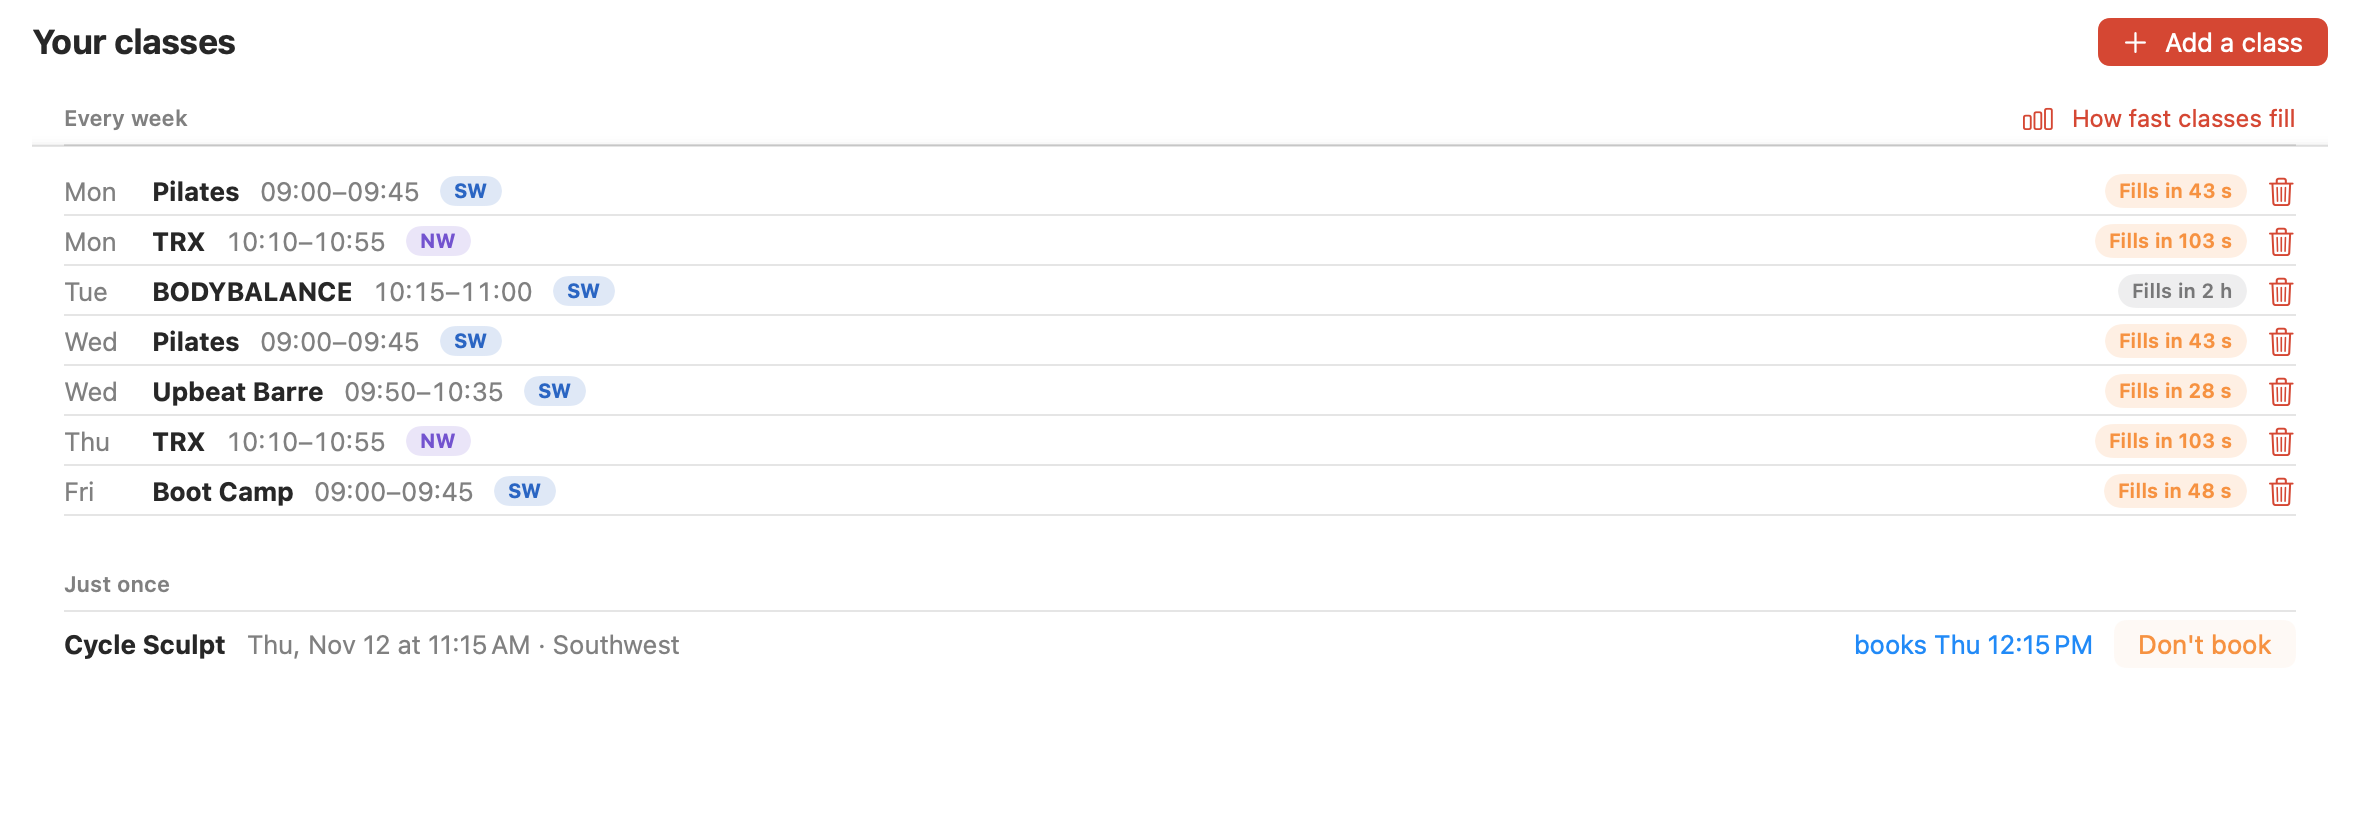
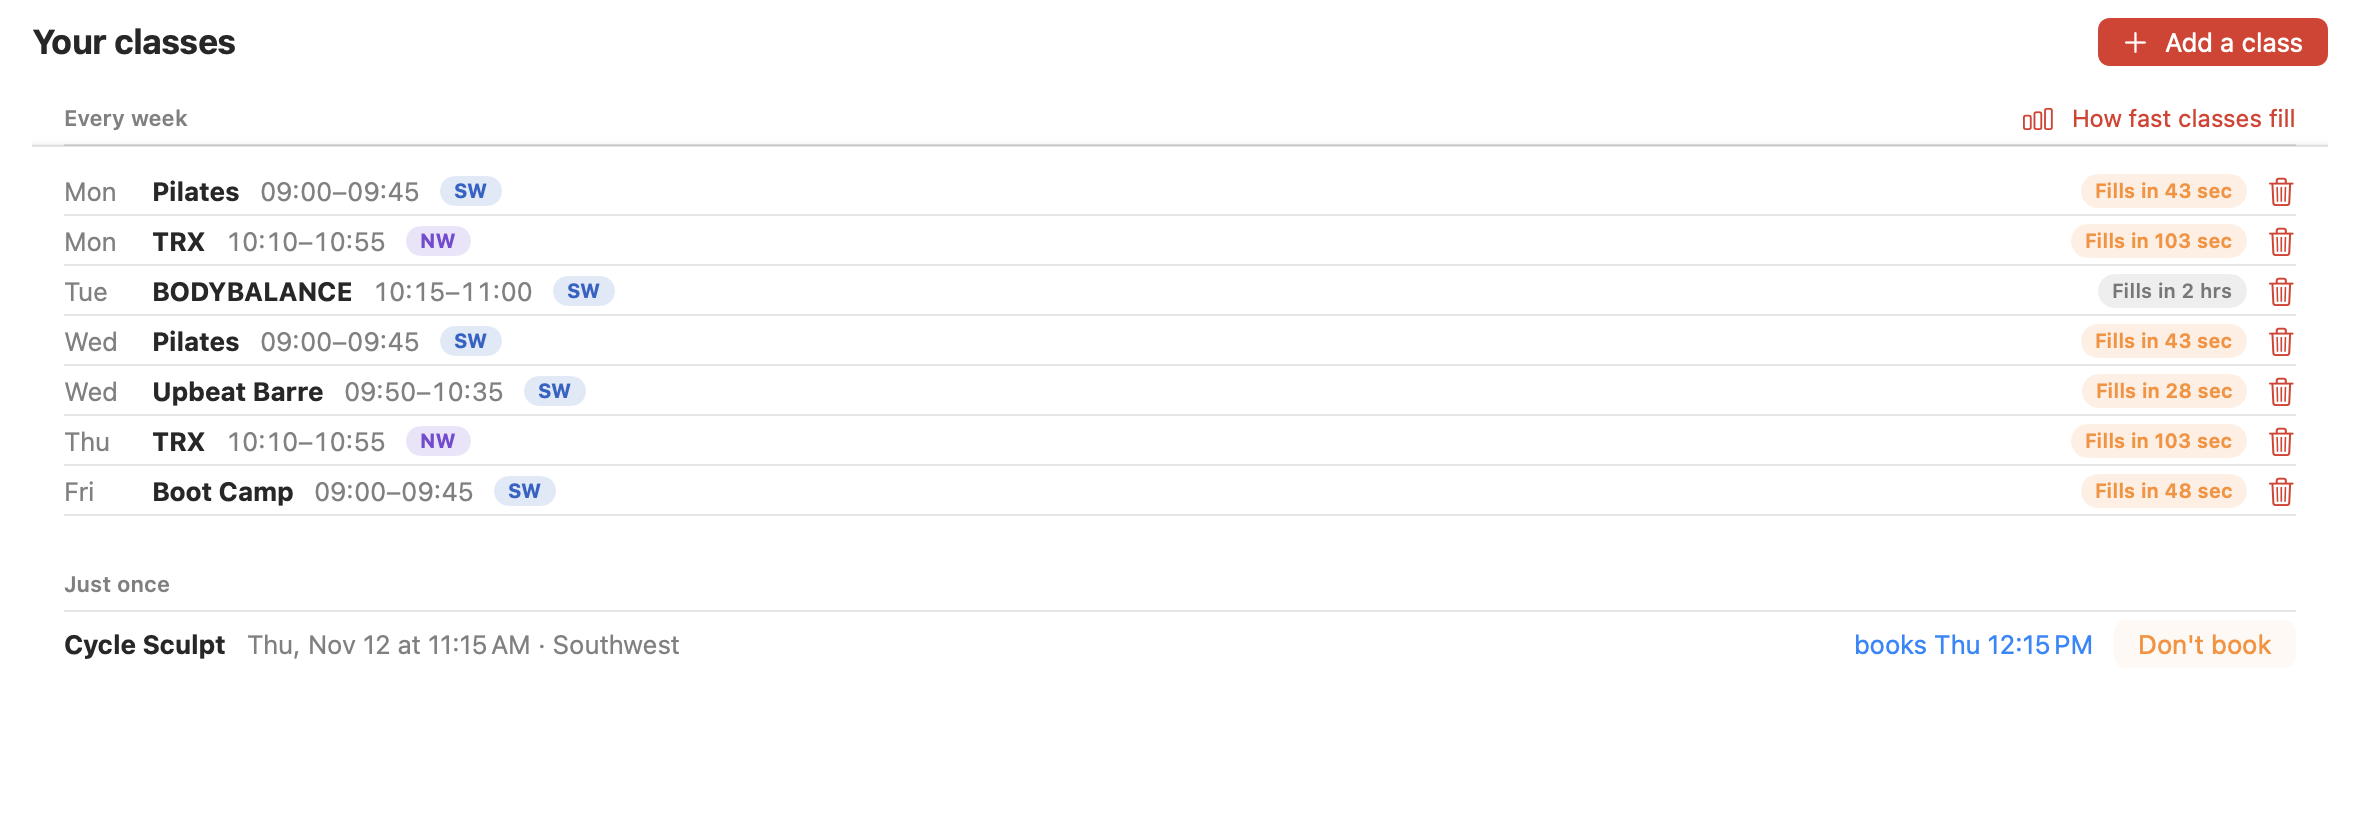
Fill times: sec, min, hrs, days everywhere (#243)
"Filled in 71 s" next to "Filled in 47 min" read inconsistently. One wording
now: 71 sec, 47 min, 22 hrs, 3 days. The Mac fill-speed table used its own
copy ("37s", "2 h") and now uses the shared one too. Screenshots retaken.

Claude-Session: https://claude.ai/code/session_01TinE6kP4yPHv2TZ2PdXNmB

diff --git a/app/YmcaAutobook/Shared/Theme.swift b/app/YmcaAutobook/Shared/Theme.swift
@@ -56,17 +56,17 @@ struct BranchChip: View {
     }
 }
 
-/// How fast a class fills, worded the same everywhere: "Fills in 43 s".
+/// How fast a class fills, worded the same everywhere: "Fills in 43 sec".
 enum FillSpeed {
     static func duration(_ seconds: Double?) -> String {
         guard let s = seconds else { return "\u{2014}" }
-        if s < 120 { return "\(Int(s.rounded())) s" }
+        if s < 120 { return "\(Int(s.rounded())) sec" }
         if s < 7200 { return "\(Int(s / 60)) min" }
-        if s < 2 * 86400 { return "\(Int((s / 3600).rounded())) h" }
-        return "\(Int((s / 86400).rounded())) d"
+        if s < 2 * 86400 { return "\(Int((s / 3600).rounded())) hrs" }
+        return "\(Int((s / 86400).rounded())) days"
     }
 
-    /// One class that filled: "Filled in 43 s".
+    /// One class that filled: "Filled in 43 sec".
     static func filled(_ seconds: Double) -> String { "Filled in \(duration(seconds))" }
 
     static func label(filledWeeks: Int, median: Double?) -> String {

diff --git a/app/YmcaAutobook/macOS/UI/StatsView.swift b/app/YmcaAutobook/macOS/UI/StatsView.swift
@@ -62,12 +62,6 @@ struct StatsView: View {
 
     private func isMine(_ s: SlotStats) -> Bool { engine.classes.contains { $0.slotKey == s.id } }
 
-    private func duration(_ seconds: Double?) -> String {
-        guard let s = seconds else { return "—" }
-        if s < 120 { return "\(Int(s.rounded()))s" }
-        if s < 7200 { return "\(Int(s / 60)) min" }
-        if s < 2 * 86400 { return String(format: "%.0f h", s / 3600) }
-        return String(format: "%.0f d", s / 86400)
-    }
+    private func duration(_ seconds: Double?) -> String { FillSpeed.duration(seconds) }
 }
 #endif

diff --git a/app/YmcaAutobook/Shared/CalendarCell.swift b/app/YmcaAutobook/Shared/CalendarCell.swift
@@ -14,7 +14,7 @@ struct CalendarCell: View {
     var queued = false
     /// An extra symbol after the time (the iPhone's swap arrows).
     var symbol: (name: String, color: Color)? = nil
-    /// A line under the name, e.g. "Filled in 43 s".
+    /// A line under the name, e.g. "Filled in 43 sec".
     var note: String? = nil
     var font: CGFloat = 13
 

diff --git a/app/YmcaAutobook/iOS/Services/FillStatsRepository.swift b/app/YmcaAutobook/iOS/Services/FillStatsRepository.swift
@@ -78,7 +78,7 @@ final class FillStatsRepository: ObservableObject {
                        branchId: c.locationIds.first ?? 1392)]
     }
 
-    /// "37s", "4 min", "2 h", "3 d"
+    /// "37 sec", "4 min", "2 hrs", "3 days"
     static func duration(_ seconds: Double?) -> String {
         FillSpeed.duration(seconds)
     }

diff --git a/release-notes/1.2.md b/release-notes/1.2.md
@@ -10,5 +10,5 @@
 - Says plainly that the Mac and iPhone/iPad need the same Apple Account, and the iPhone shows "Nothing from your Mac yet" until it hears from one
 - Mac: the Away dates window no longer shows the GitHub backup's status (it's under Settings → Advanced mode), and its tip points to Schedule and Classes
 - Mac: Away dates is a blue button with an airplane, like Add a class (and like both on the iPhone)
-- The Mac uses the iPhone's colors (YMCA red buttons), branch chips (SW, NW) and class times, and both say how fast a class fills the same way ("Fills in 43 s")
-- Schedule shows how fast each class filled ("Filled in 43 s") once it has, on the Mac, iPhone and iPad
+- The Mac uses the iPhone's colors (YMCA red buttons), branch chips (SW, NW) and class times, and both say how fast a class fills the same way ("Fills in 43 sec")
+- Schedule shows how fast each class filled ("Filled in 43 sec") once it has, on the Mac, iPhone and iPad
